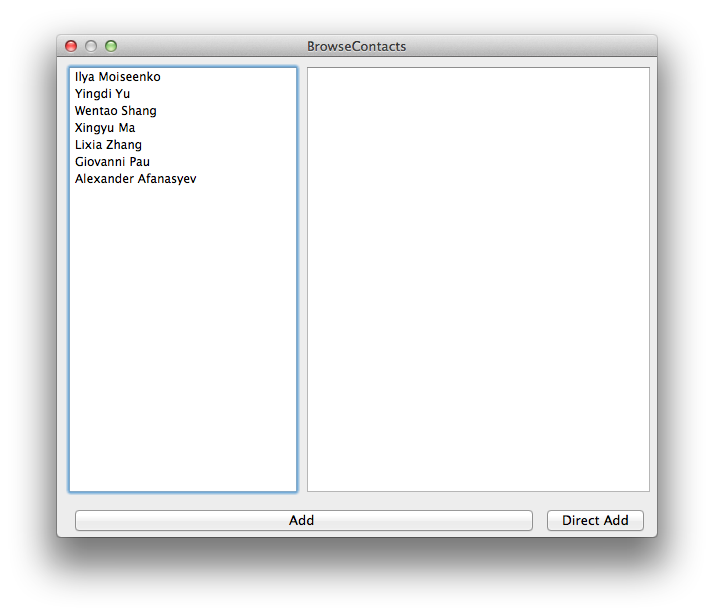
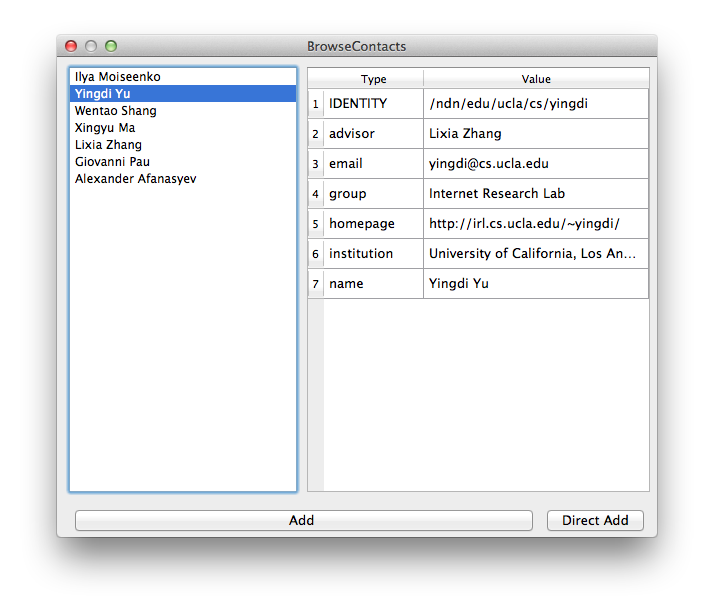
tmp

Changed region(s): [[0.0308, 0.0617, 0.9552, 0.9562], [0.5854, 0.1234, 0.8627, 0.3701]]

diff --git a/doc/index.rst b/doc/index.rst
@@ -26,6 +26,13 @@ One must be one of your contacts if she/he wants to have a chat with you.
 Right now, it is empty, so let's add some contacts. 
 
 **Step 2**: Click the **Add** button in the lower left corner. 
-You should see a contact browsing dialog which collects all the existing contact certificate in the testbed.
+You should see a contact browsing dialog which collects all the existing contact certificate in the testbed, for example:
 
 .. image:: https://raw.github.com/bruinfish/ChronoChat-V2/master/doc/img/browse-contact.png
+
+You can select the contact you want to add, and then click the **Add** button.
+Then you should see that the selected contact has been added into your contact list.
+
+.. image:: https://raw.github.com/bruinfish/ChronoChat-V2/master/doc/img/chronochat-2.png
+
+
